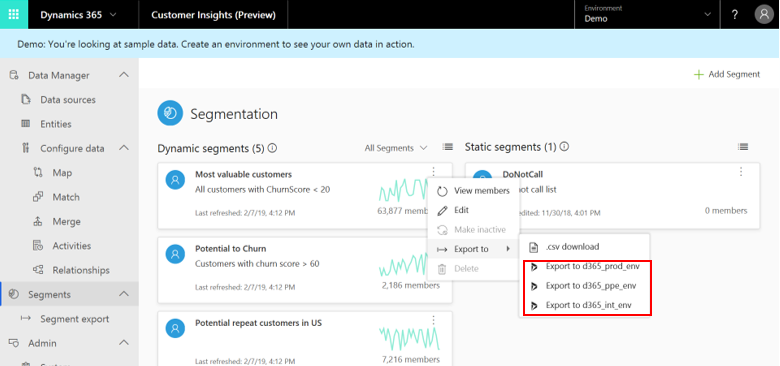
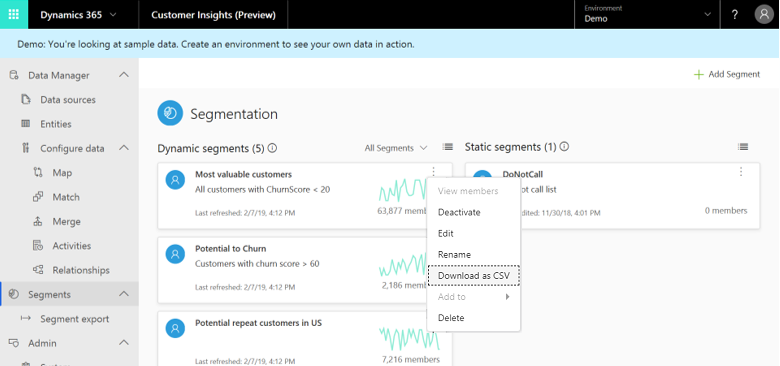
Nimrod update

Changed region(s): [[0.5538, 0.571, 0.8308, 0.9317], [0.5538, 0.5109, 0.6769, 0.541]]

diff --git a/ai-docs/customer-insights/segment-export.md b/ai-docs/customer-insights/segment-export.md
@@ -2,7 +2,7 @@
 title: "Export a segment | MicrosoftDocs"
 description: 
 ms.custom: ""
-ms.date: 04/01/2019
+ms.date: 08/02/2019
 ms.reviewer: ""
 ms.service: dynamics-365-ai
 ms.suite: ""
@@ -25,18 +25,17 @@ Now that you have created one or more segments using the **Segment builder** scr
 
 At present, you can export any of your segments to both a CSV. file and a Dynamics 365 for Sales location. In the future, we will add additional segment export options.
 
-1. Both options are available within the **Segments** page.
+1. The csv. option is available within  the **Segments** page.
       
    - First, select (...) within a specific segment's tile.
-   - Then, select the **Export** option from the actions menu.
-   - Lastly, choose between a CSV format and a specific Dynamics 365 for Sales destination (only the Dynamics 365 for Sales destinations are highlighted below) 
+   - Then, select the **Download as CSV** from the actions menu.
       
    > [!div class="mx-imgBorder"] 
    > ![](media/segmentation-export-destination3.png "Segmentation destination")
       
    Note that you will not see any Dynamics 365 destinations until you add them using the **Export Screen** as explained in the sub-section below. This screen is accessible via the **Export Segment** tab on the left-side menu (under **Admin**).
       
-2. The CSV option is also available in the specific segment's page by selecting **Export** at the top-right corner of the page.
+2. The Dynamics 365 options are available via the [Export destinations](export-destinations.md) page. 
 
    > [!div class="mx-imgBorder"] 
    > ![](media/segment-menu-export-top.png "Export segment")
@@ -54,7 +53,7 @@ At present, you can export any of your segments to both a CSV. file and a Dynami
    > [!div class="mx-imgBorder"] 
    > ![](media/segmentation-export-destination.png "Segmentation export destination")
 
-3. Upon the completion of Step 3, your destination should appear in the **Destinations** table. Below you can see an example with three created destinations. Beyond the details completed in Step 2, this table also specifies the creation date and time for your destinations.
+3. Upon the completion of Step 2, your destination should appear in the **Destinations** table. Below you can see an example with three created destinations. Beyond the details completed in Step 2, this table also specifies the creation date and time for your destinations.
 
    > [!div class="mx-imgBorder"] 
    > ![](media/segmentation-export-destination2.png "Segmentation add destination")
